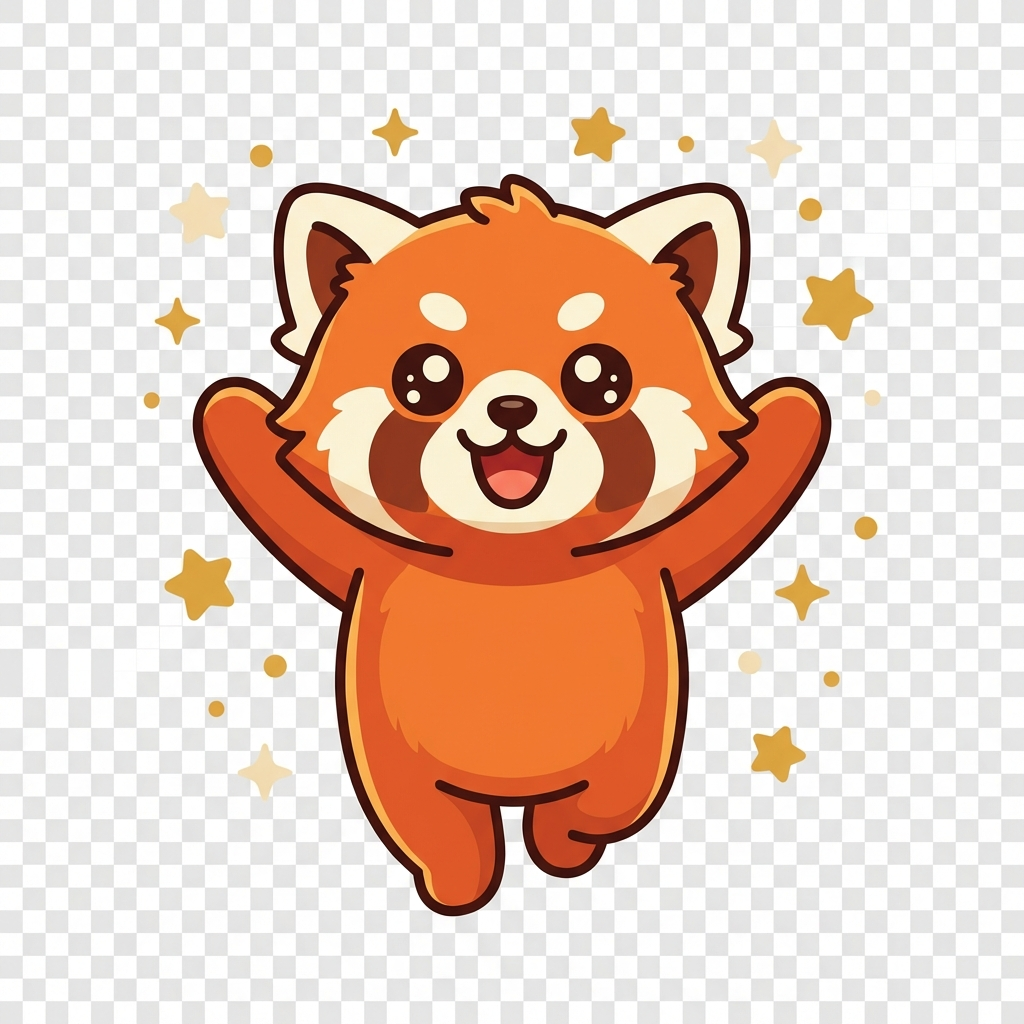
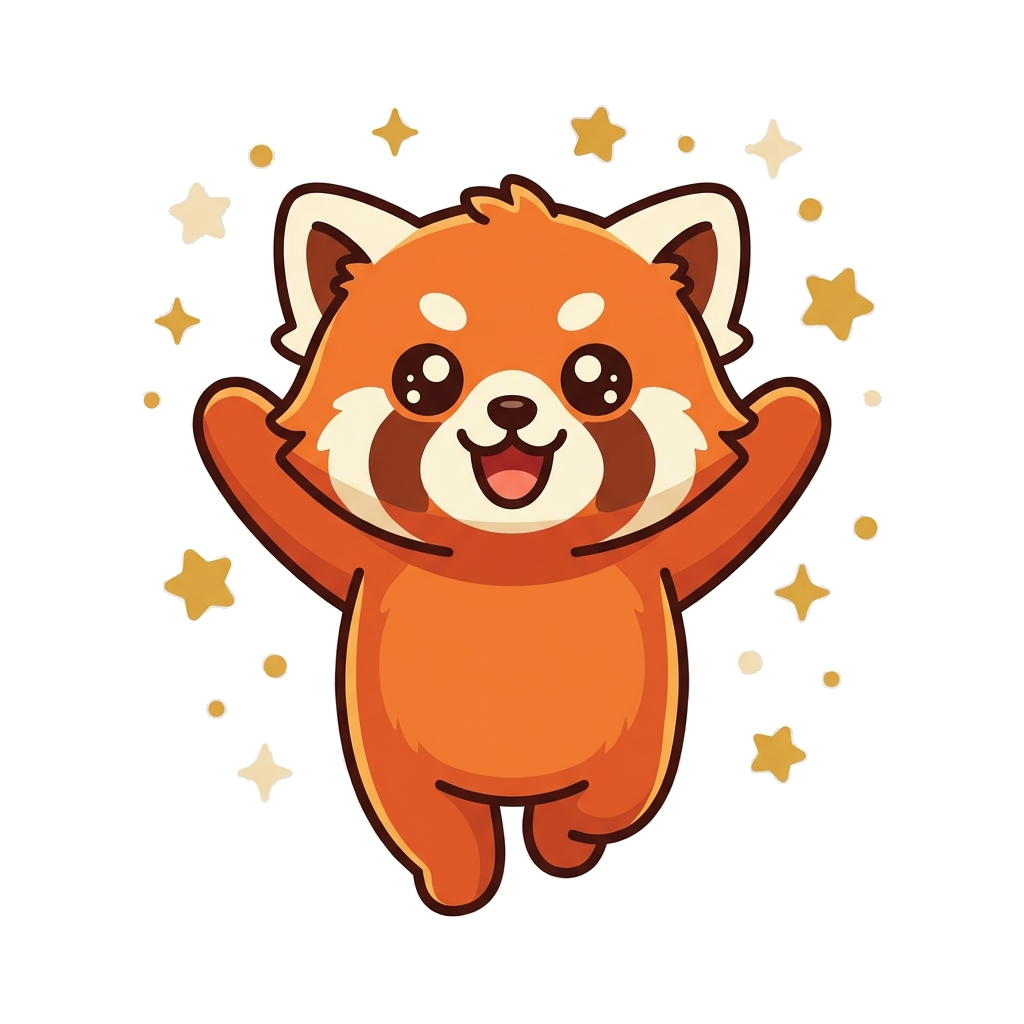
Remove checkerboard backgrounds from mascots

diff --git a/public/sw.js b/public/sw.js
@@ -1,4 +1,4 @@
-const CACHE_NAME = 'panda-violin-local-v58';
+const CACHE_NAME = 'panda-violin-local-v59';
 
 let ASSETS_TO_CACHE = [];
 try {

diff --git a/sw.js b/sw.js
@@ -1,4 +1,4 @@
-const CACHE_NAME = 'panda-violin-local-v58';
+const CACHE_NAME = 'panda-violin-local-v59';
 
 let ASSETS_TO_CACHE = [];
 try {
